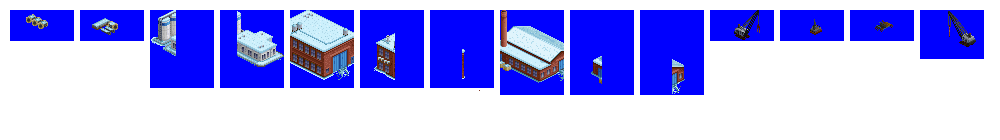
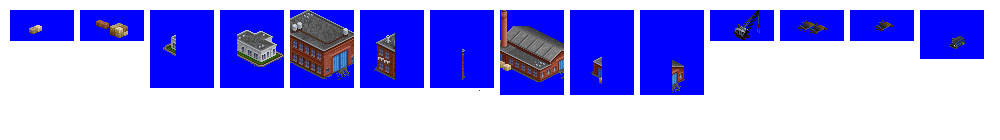
Change: mangle the vehicle plant graphics a bit to be marginally different to machine shop

diff --git a/src/industries/vehicle_factory.py b/src/industries/vehicle_factory.py
@@ -39,7 +39,8 @@ industry = Industry(id='vehicle_factory',
                     nearby_station_name='string(STR_STATION, string(STR_TOWN), string(STR_STATION_HEAVY_INDUSTRY))',
                     fund_cost_multiplier='145',
                     closure_msg='TTD_STR_NEWS_INDUSTRY_CLOSURE_SUPPLY_PROBLEMS',
-                    extra_text_industry='STR_EXTRA_VEHICLE_FACTORY')
+                    extra_text_industry='STR_EXTRA_VEHICLE_FACTORY',
+                    graphics_change_dates = [1920])
 
 industry.economy_variations['BASIC_TROPIC'].enabled = True
 
